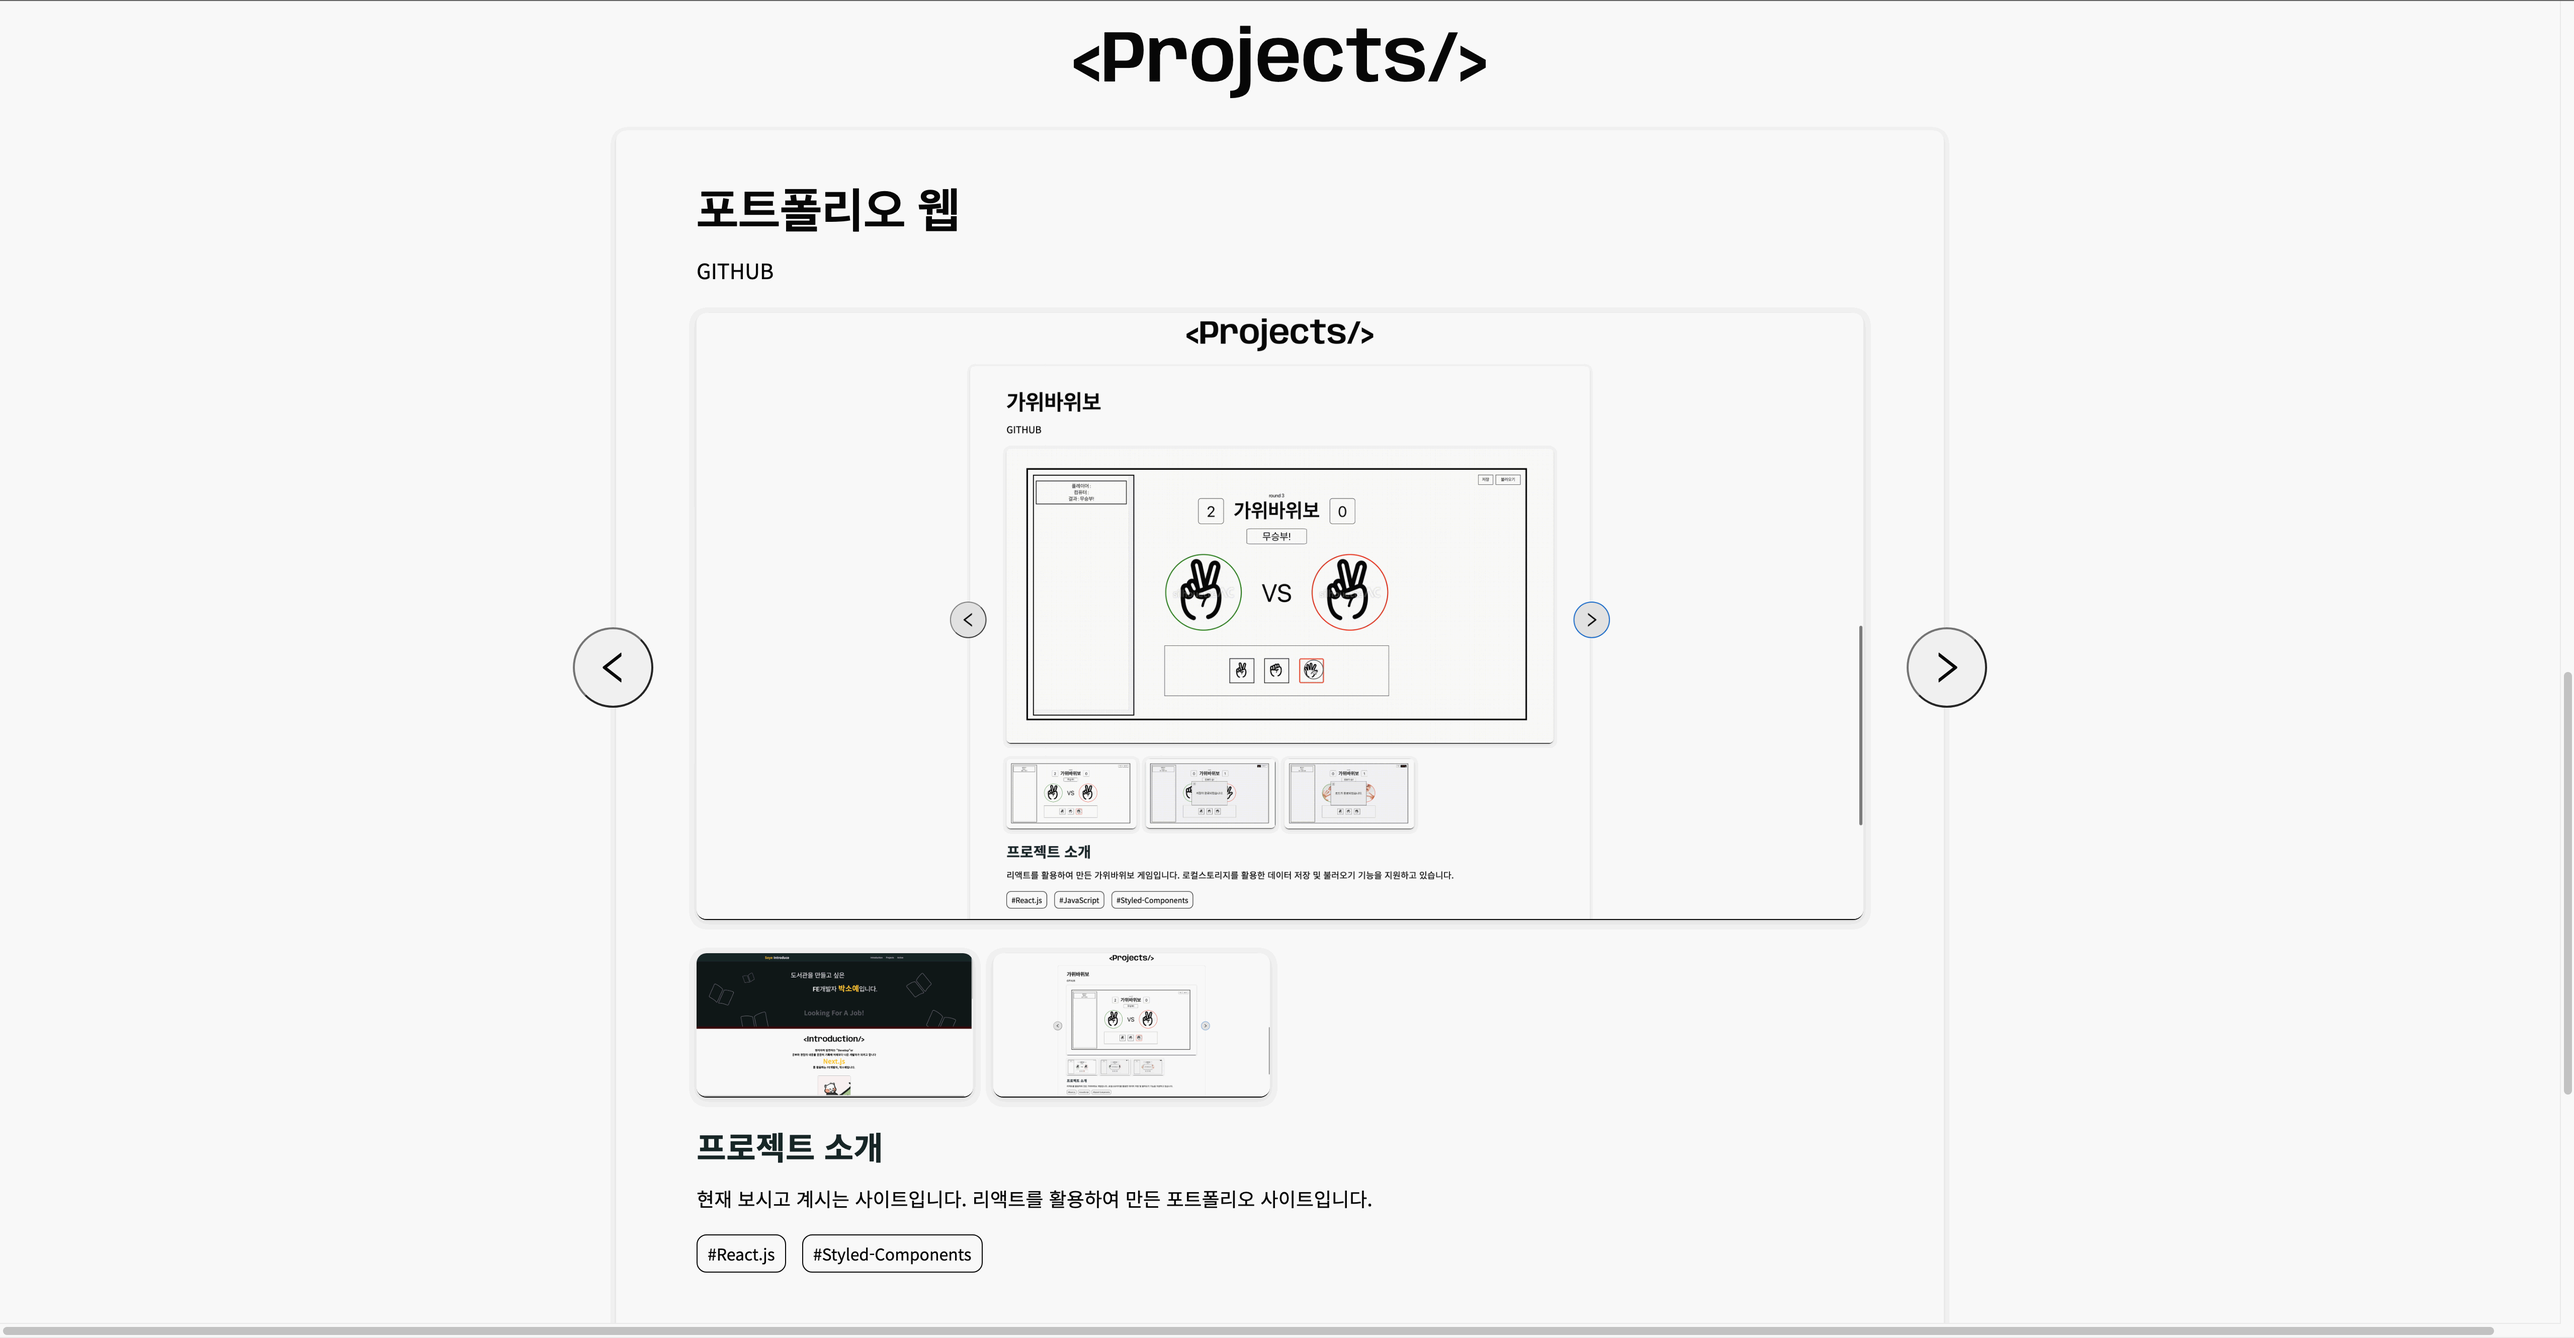
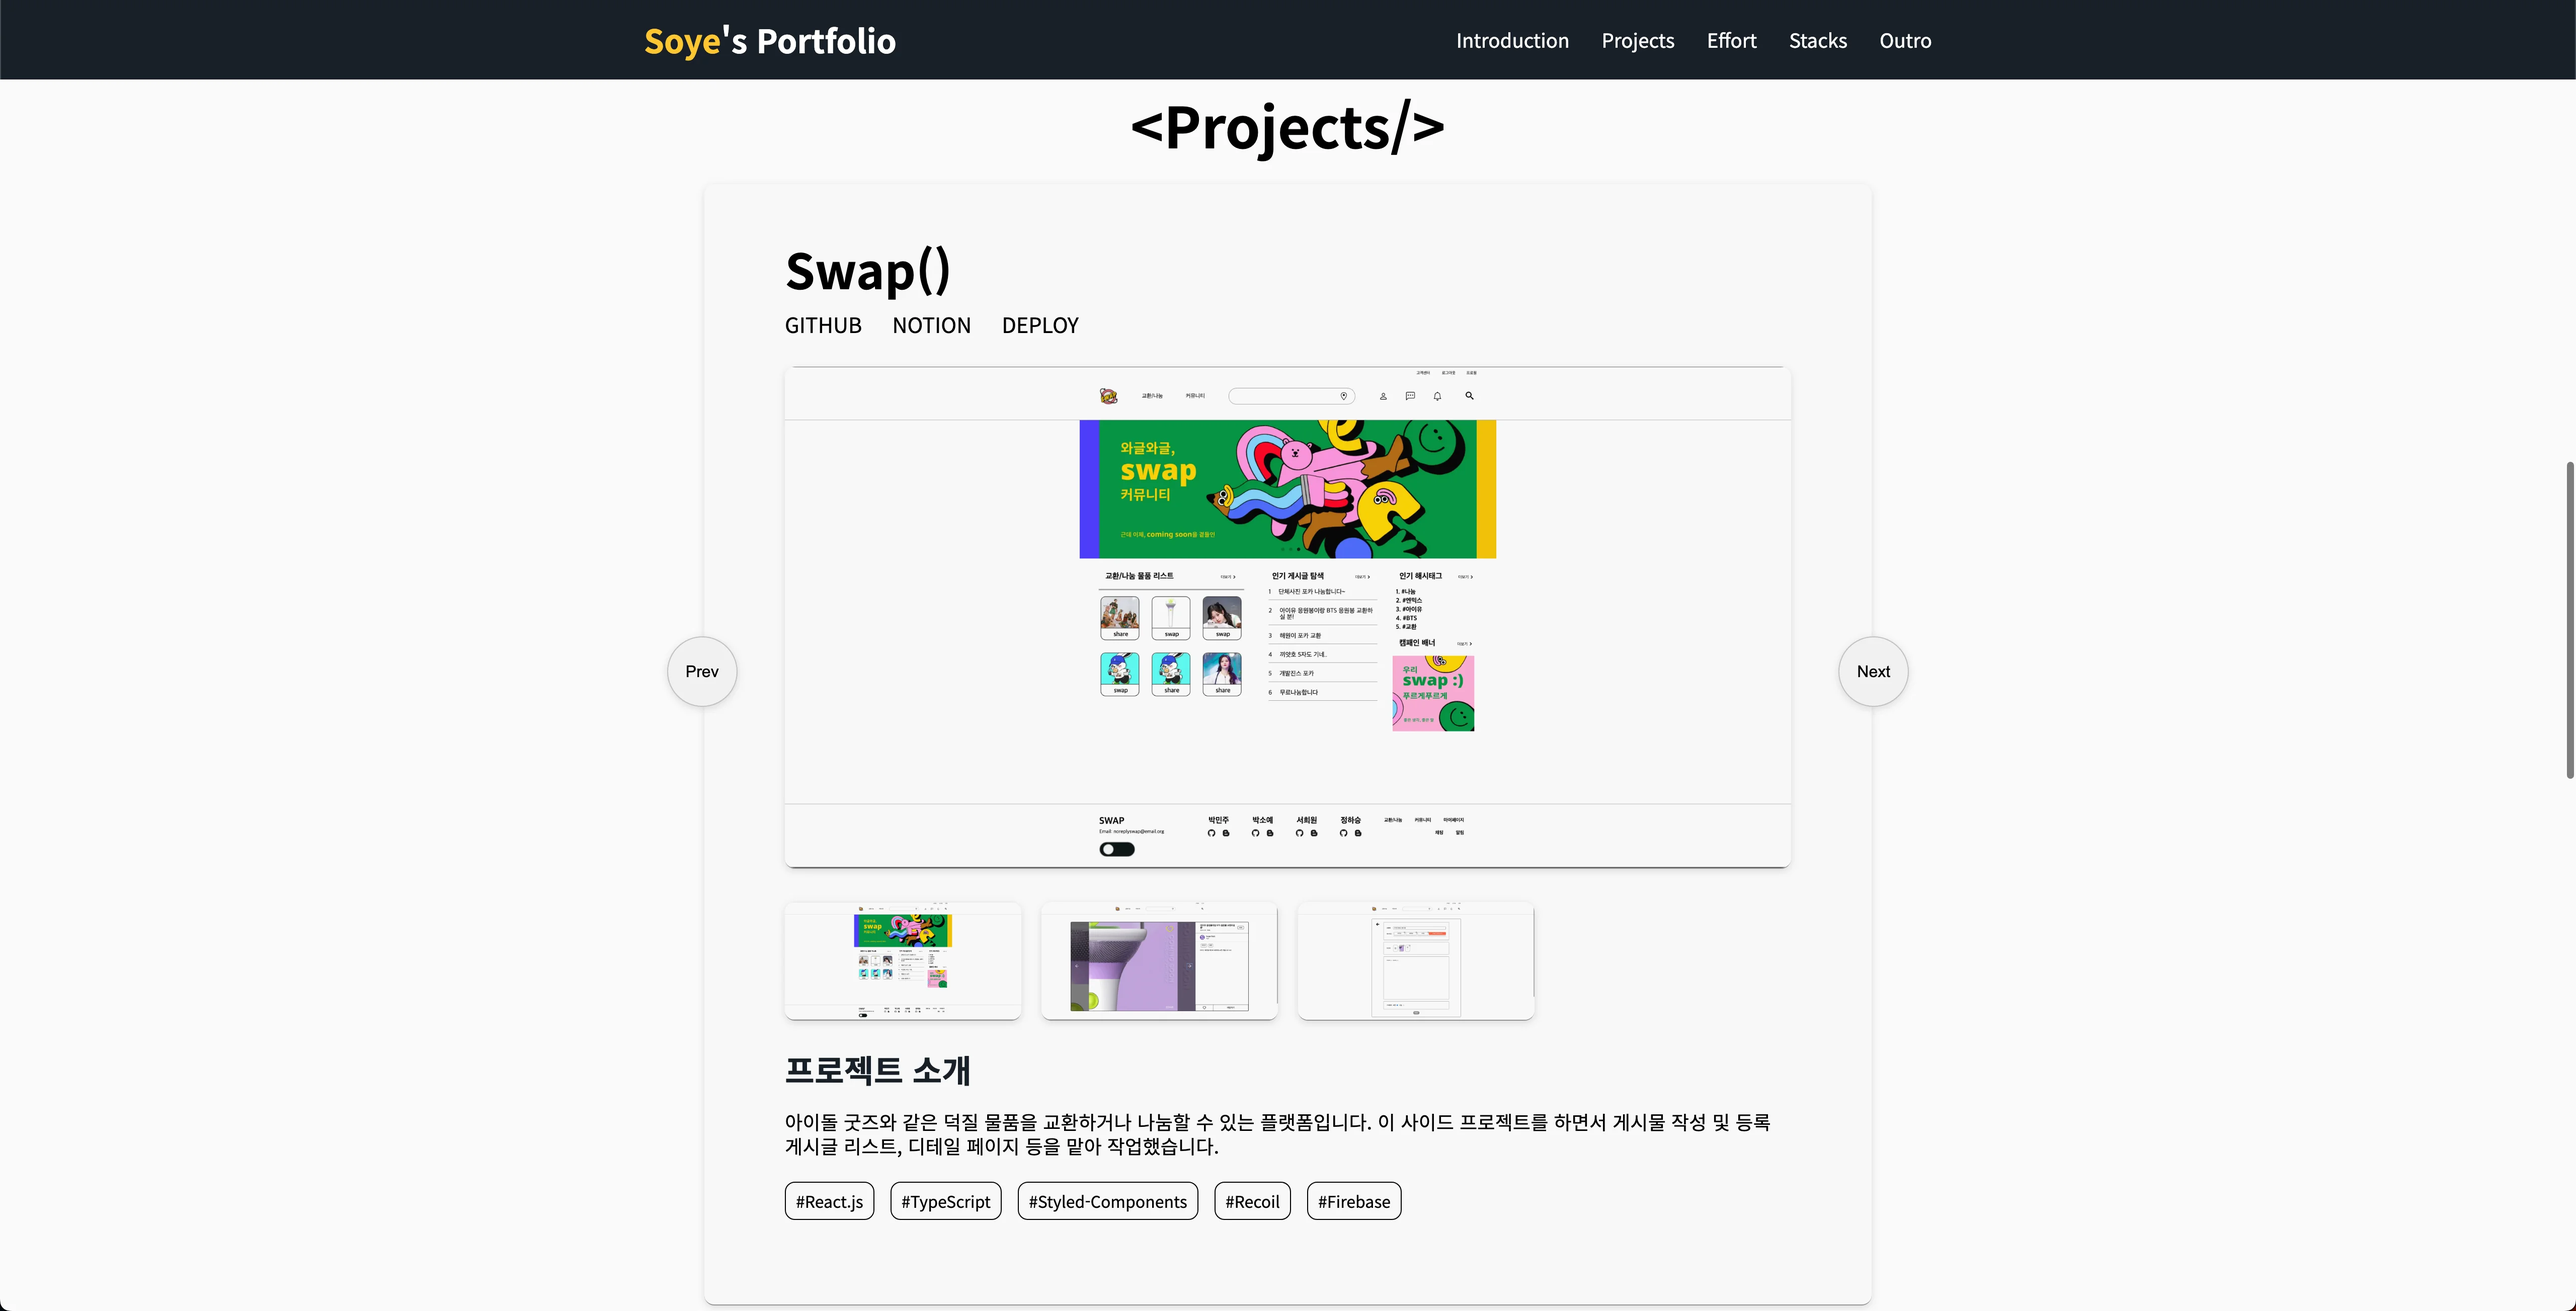
Doc : README 업데이트

diff --git a/README.md b/README.md
@@ -1,1 +1,52 @@
 # Soye's Portfolio
+
+## 간단 소개
+
+> 안녕하세요. FE개발자 박소예입니다. <br/>
+> 해당 사이트는 저에 대한 간단한 소개와 프로젝트 등을 소개한 포트폴리오 사이트입니다.<br/>
+> React로 구현된 SPA 사이트이며 스타일드 컴포넌트를 활용해 스타일링 하였습니다.
+
+---
+
+## 실행 방법
+
+```js
+$ npm run start
+$ yarn start
+```
+
+---
+
+## 사용스택
+
+React.js, Styled-components
+
+---
+
+## 페이지 소개
+
+### 메인페이지
+
+![메인페이지](./src/images/portfolio/portfolio.webp)
+
+1. 상단 Nav바를 통해 원하는 카테고리로 이동할 수 있습니다.
+2. useInterval hook을 활용하여 사용스택을 1초마다 바꿔 보여주도록 했습니다.
+
+---
+
+### 프로젝트 소개 페이지
+
+![프로젝트 소개 페이지](./src//images//portfolio/portfolio-project.webp)
+
+1. prev, next 버튼을 통해 프로젝트를 전환할 수 있습니다. useState를 활용해 배열로 만들어둔 프로젝트 정보를 불러들이는 형태로 작업했습니다.
+2. useState만 활용 시 사진이 업데이트가 되지 않는 문제가 발생하는데 useEffect를 활용해 cardIndex 가 변할 때마다 사진도 업데이트 될 수 있도록 하였습니다.
+3. 또한 프리뷰 이미지 하단의 작은 이미지를 클릭할 때마다 프리뷰 이미지가 변경될 수 있도록 하였습니다.
+
+---
+
+### 반응형 (모바일, 태블릿) 적용
+
+![반응형 모음](./src//images/example.png)
+
+1. 모바일과 태블릿 사이즈에도 대응할 수 있도록 스타일링 하였습니다.
+2. 스크린 사이즈에 따라 카드 디자인을 해체하는 등의 디자인을 넣었습니다.
